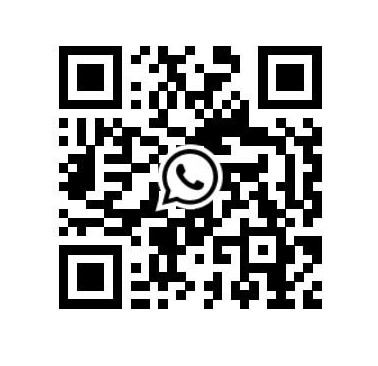
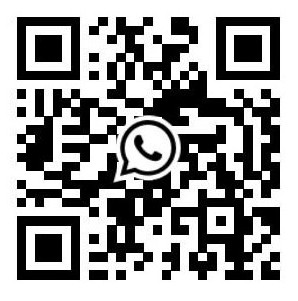
implementação de iframe

diff --git a/index.html b/index.html
@@ -38,6 +38,8 @@
                             <img src="icones/telegrama.png" alt="icone-telegram">
                             
                             <a href="https://t.me/alexandrectbj" rel="external" target="_blank">Telegram</a>
+
+                            <a href="paginas_qr/telegram.html" target="qrcode"><img src="Imagens/qricone.png" alt="qricone" id="qricone"></a>
                         
                         </li>
 
@@ -45,24 +47,16 @@
                         <img src="icones/whatsapp-xxl.png" alt="icone-whatsapp">
 
                         <a href="https://wa.me/qr/GXRLNMZ7SXWFB1">Whatsapp</a>
+
+                        <a href="paginas_qr/whatsapp.html" target="qrcode"><img src="Imagens/qricone.png" alt="qricone" id="qricone"></a>
                     </li>
                         
                         <li><img src="icones/gmail.png" alt="icone-gmail"> <a href="mailto:alexandrectbj@gmail.com" target="_blank">alexandrectbj@gmail.com</a></li>
         </ul>
                 </div>
 
-                <div id="qrcode">
-
-
-                        <img 
-                        src='Imagens/qrcode_whatsapp.jpg' 
-                        alt='qrcode_whatsapp' 
-                        width='100%' height='100%'
-                        >
-
-                
-
-                    
+                <div id="qrcode">  
+                    <iframe src="paginas_qr/whatsapp.html" name="qrcode" id="qrcode" frameborder="0"></iframe>
                 </div>
             </div>
         </aside>

diff --git a/paginas_qr/telegram.html b/paginas_qr/telegram.html
@@ -1,0 +1,25 @@
+<!DOCTYPE html>
+<html lang="pt-br">
+<head>
+    <meta charset="UTF-8">
+    <meta http-equiv="X-UA-Compatible" content="IE=edge">
+    <meta name="viewport" content="width=device-width, initial-scale=1.0">
+    <title>Telegram</title>
+    <style>
+        * {
+            margin: 0px;
+            padding: 0px;
+        }
+
+        body{
+            width: 100vw;
+            height: 100vh;
+            background: black url('../Imagens/qrcode_telegram.jpg') no-repeat top center;
+            background-size: cover;
+        }
+    </style>
+</head>
+<body>
+    
+</body>
+</html>

diff --git a/paginas_qr/whatsapp.html b/paginas_qr/whatsapp.html
@@ -1,0 +1,25 @@
+<!DOCTYPE html>
+<html lang="pt-br">
+<head>
+    <meta charset="UTF-8">
+    <meta http-equiv="X-UA-Compatible" content="IE=edge">
+    <meta name="viewport" content="width=device-width, initial-scale=1.0">
+    <title>Whatsapp</title>
+    <style>
+        * {
+            margin: 0px;
+            padding: 0px;
+        }
+
+        body{
+            width: 100vw;
+            height: 100vh;
+            background: black url('../Imagens/qrcode_whatsapp.jpg') no-repeat top center;
+            background-size: cover;
+        }
+    </style>
+</head>
+<body>
+    
+</body>
+</html>

diff --git a/css/style.css b/css/style.css
@@ -157,3 +157,20 @@ div#qrcode{
     height: 120px;
     width: 120px;
 }
+
+img#qricone{
+    margin-left: 10px;
+    width: 15px;
+    height: 15px;
+}
+
+img#qricone:hover{
+    width: 20px;
+    height: 20px;
+    transition: 1s;
+}
+
+iframe#qrcode{
+    height: 120px;
+    width: 120px;
+}
